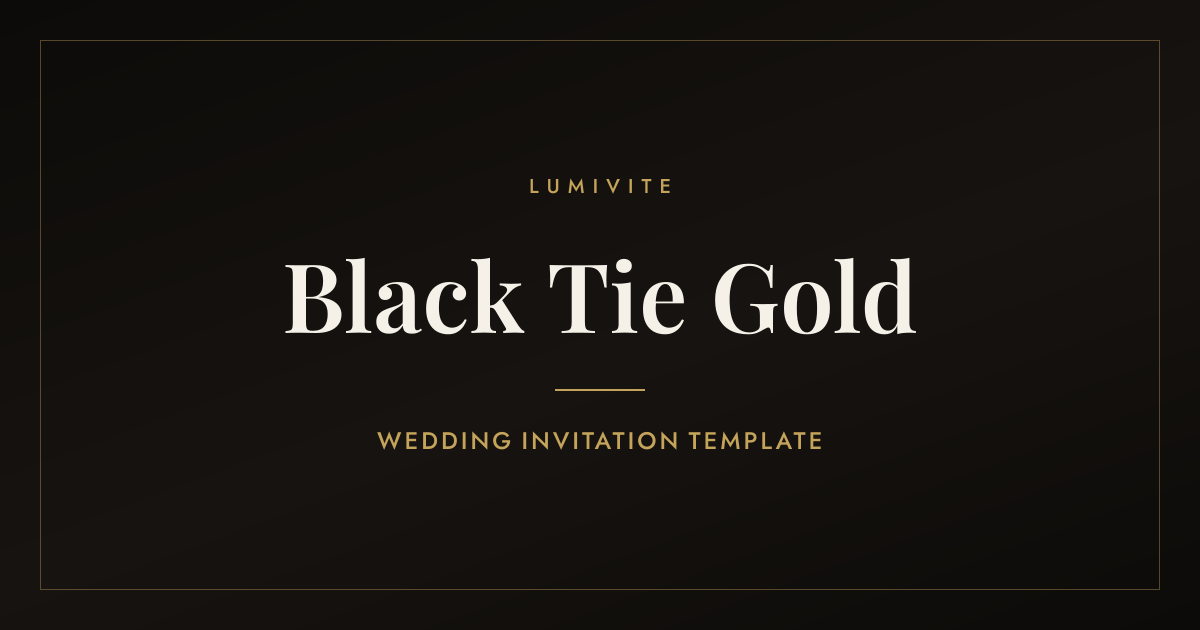
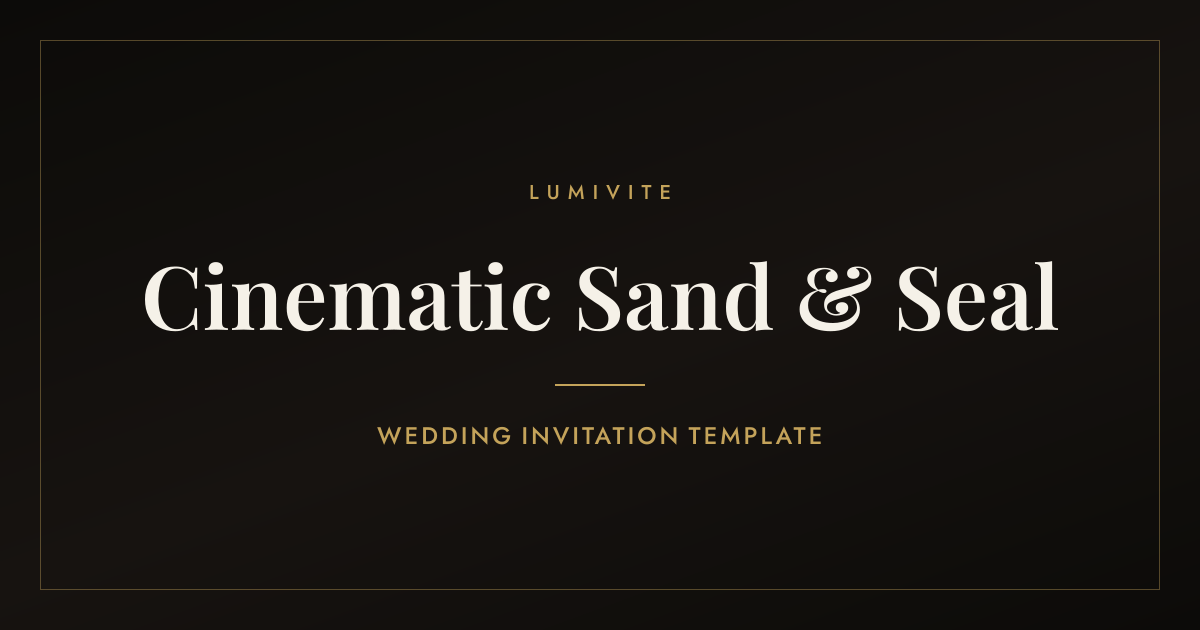
fix: standardize template names across the whole site
The 4 templates had different names depending on where you looked:
Landing page, Order form, and WhatsApp share previews each disagreed
on templates 2-4. Standardized on the names already live on
Instagram: Dark Luxury, Garden Romance, Rose Gold & Blush, Cinematic
Sand & Seal. Regenerated the two share-preview images that had the
old names baked into the pixels (Rose Gold Romance -> Rose Gold &
Blush, Black Tie Gold -> Cinematic Sand & Seal).

Also removed target="_blank" from the landing page's bottom "Start
Your Invitation" CTA — it's an internal route and shouldn't force a
new tab, unlike the hero's identical "Order Now" button which didn't
have this.

diff --git a/src/pages/Landing.jsx b/src/pages/Landing.jsx
@@ -188,7 +188,7 @@ export default function Landing() {
             <p className="text-[#4a7c59]/40 text-xs tracking-widest">TAP TO OPEN</p>
           </div>
           <div className="bg-[#4a7c59]/10 py-3 px-6 flex items-center justify-between border-t border-[#4a7c59]/10">
-            <span className="text-[#4a7c59] text-sm font-medium">Botanical Garden</span>
+            <span className="text-[#4a7c59] text-sm font-medium">Garden Romance</span>
             <span className="text-[#4a7c59]/40 text-xs group-hover:text-[#4a7c59] transition">View Demo →</span>
           </div>
         </motion.div>
@@ -221,7 +221,7 @@ export default function Landing() {
         </motion.div>
       </a>
 
-      {/* Template 4 - Golden Envelope */}
+      {/* Template 4 - Cinematic Sand & Seal */}
       <a href="/demo4" className="group block">
         <motion.div whileHover={{ scale: 1.03 }} transition={{ duration: 0.3 }}
           className="rounded-3xl overflow-hidden shadow-2xl"
@@ -241,7 +241,7 @@ export default function Landing() {
           </div>
           <div className="py-3 px-6 flex items-center justify-between"
             style={{ background: "rgba(196,163,90,0.06)", borderTop: "1px solid rgba(196,163,90,0.15)" }}>
-            <span className="text-sm font-medium" style={{ color: "#c4a35a" }}>Golden Envelope</span>
+            <span className="text-sm font-medium" style={{ color: "#c4a35a" }}>Cinematic Sand & Seal</span>
             <span className="text-xs transition group-hover:opacity-100" style={{ color: "rgba(196,163,90,0.5)" }}>View Demo →</span>
           </div>
         </motion.div>
@@ -414,7 +414,6 @@ export default function Landing() {
           </h2>
           <p className="text-white/40 mb-10">Join couples who chose Lumivite for their special day</p>
           <a href="/order"
-            target="_blank" rel="noopener noreferrer"
             className="inline-block bg-[#c9a96e] text-black font-semibold px-10 py-4 rounded-full hover:bg-[#b8965d] transition text-sm tracking-wider">
             START YOUR INVITATION →
           </a>

diff --git a/src/pages/Order.jsx b/src/pages/Order.jsx
@@ -14,7 +14,7 @@ const packages = [
 
 const templates = [
   { id: "dark", name: "Dark Luxury", nameAr: "فاخر داكن", preview: "🌑", desc: "Elegant dark theme with gold accents", descAr: "تصميم داكن أنيق مع لمسات ذهبية", link: "/demo" },
-  { id: "botanical", name: "Botanical Garden", nameAr: "الحديقة النباتية", preview: "🌿", desc: "Fresh white & sage green", descAr: "أبيض منعش مع أخضر حكيمي", link: "/demo2" },
+  { id: "botanical", name: "Garden Romance", nameAr: "رومانسية الحديقة", preview: "🌿", desc: "Fresh white & sage green", descAr: "أبيض منعش مع أخضر حكيمي", link: "/demo2" },
   { id: "rosegold", name: "Rose Gold & Blush", nameAr: "ذهبي وردي", preview: "🌸", desc: "Romantic blush pink tones", descAr: "درجات وردية رومانسية", link: "/demo3" },
   { id: "sand", name: "Cinematic Sand & Seal", nameAr: "رملي سينمائي", preview: "🏺", desc: "Warm sand tones with cinematic elegance", descAr: "درجات رملية دافئة بأناقة سينمائية", link: "/demo4" },
 ]

diff --git a/api/demo-preview.js b/api/demo-preview.js
@@ -22,14 +22,14 @@ const THEMES = {
   },
   3: {
     path: "/demo3",
-    name: "Rose Gold Romance",
-    description: "A romantic digital wedding invitation in rose gold and blush, with cinematic video, music, and RSVP tracking. Preview the Rose Gold Romance template.",
+    name: "Rose Gold & Blush",
+    description: "A romantic digital wedding invitation in rose gold and blush, with cinematic video, music, and RSVP tracking. Preview the Rose Gold & Blush template.",
     image: "demo-og-rose-gold-romance.png",
   },
   4: {
     path: "/demo4",
-    name: "Black Tie Gold",
-    description: "A formal black-tie digital wedding invitation in obsidian and gold, with cinematic video, music, and RSVP tracking. Preview the Black Tie Gold template.",
+    name: "Cinematic Sand & Seal",
+    description: "A formal digital wedding invitation in warm sand tones with cinematic elegance, music, and RSVP tracking. Preview the Cinematic Sand & Seal template.",
     image: "demo-og-black-tie-gold.png",
   },
 }
